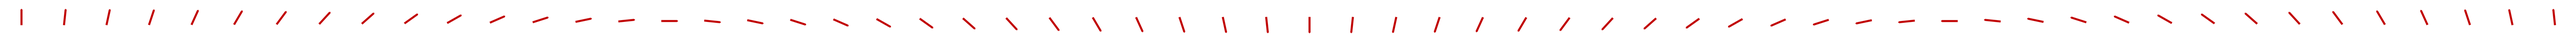
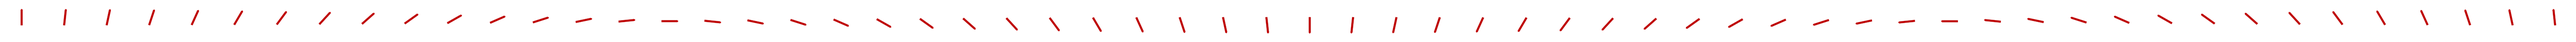
-

Changed region(s): [[0.7188, 0.4688, 0.8125, 0.5625], [0.2188, 0.4688, 0.2812, 0.5312]]

diff --git a/clock-display.py b/clock-display.py
@@ -148,4 +148,4 @@ def test():
 	clockImage.save("out/clock.png")
 
 
-run("black")
+run("swiss-red")
